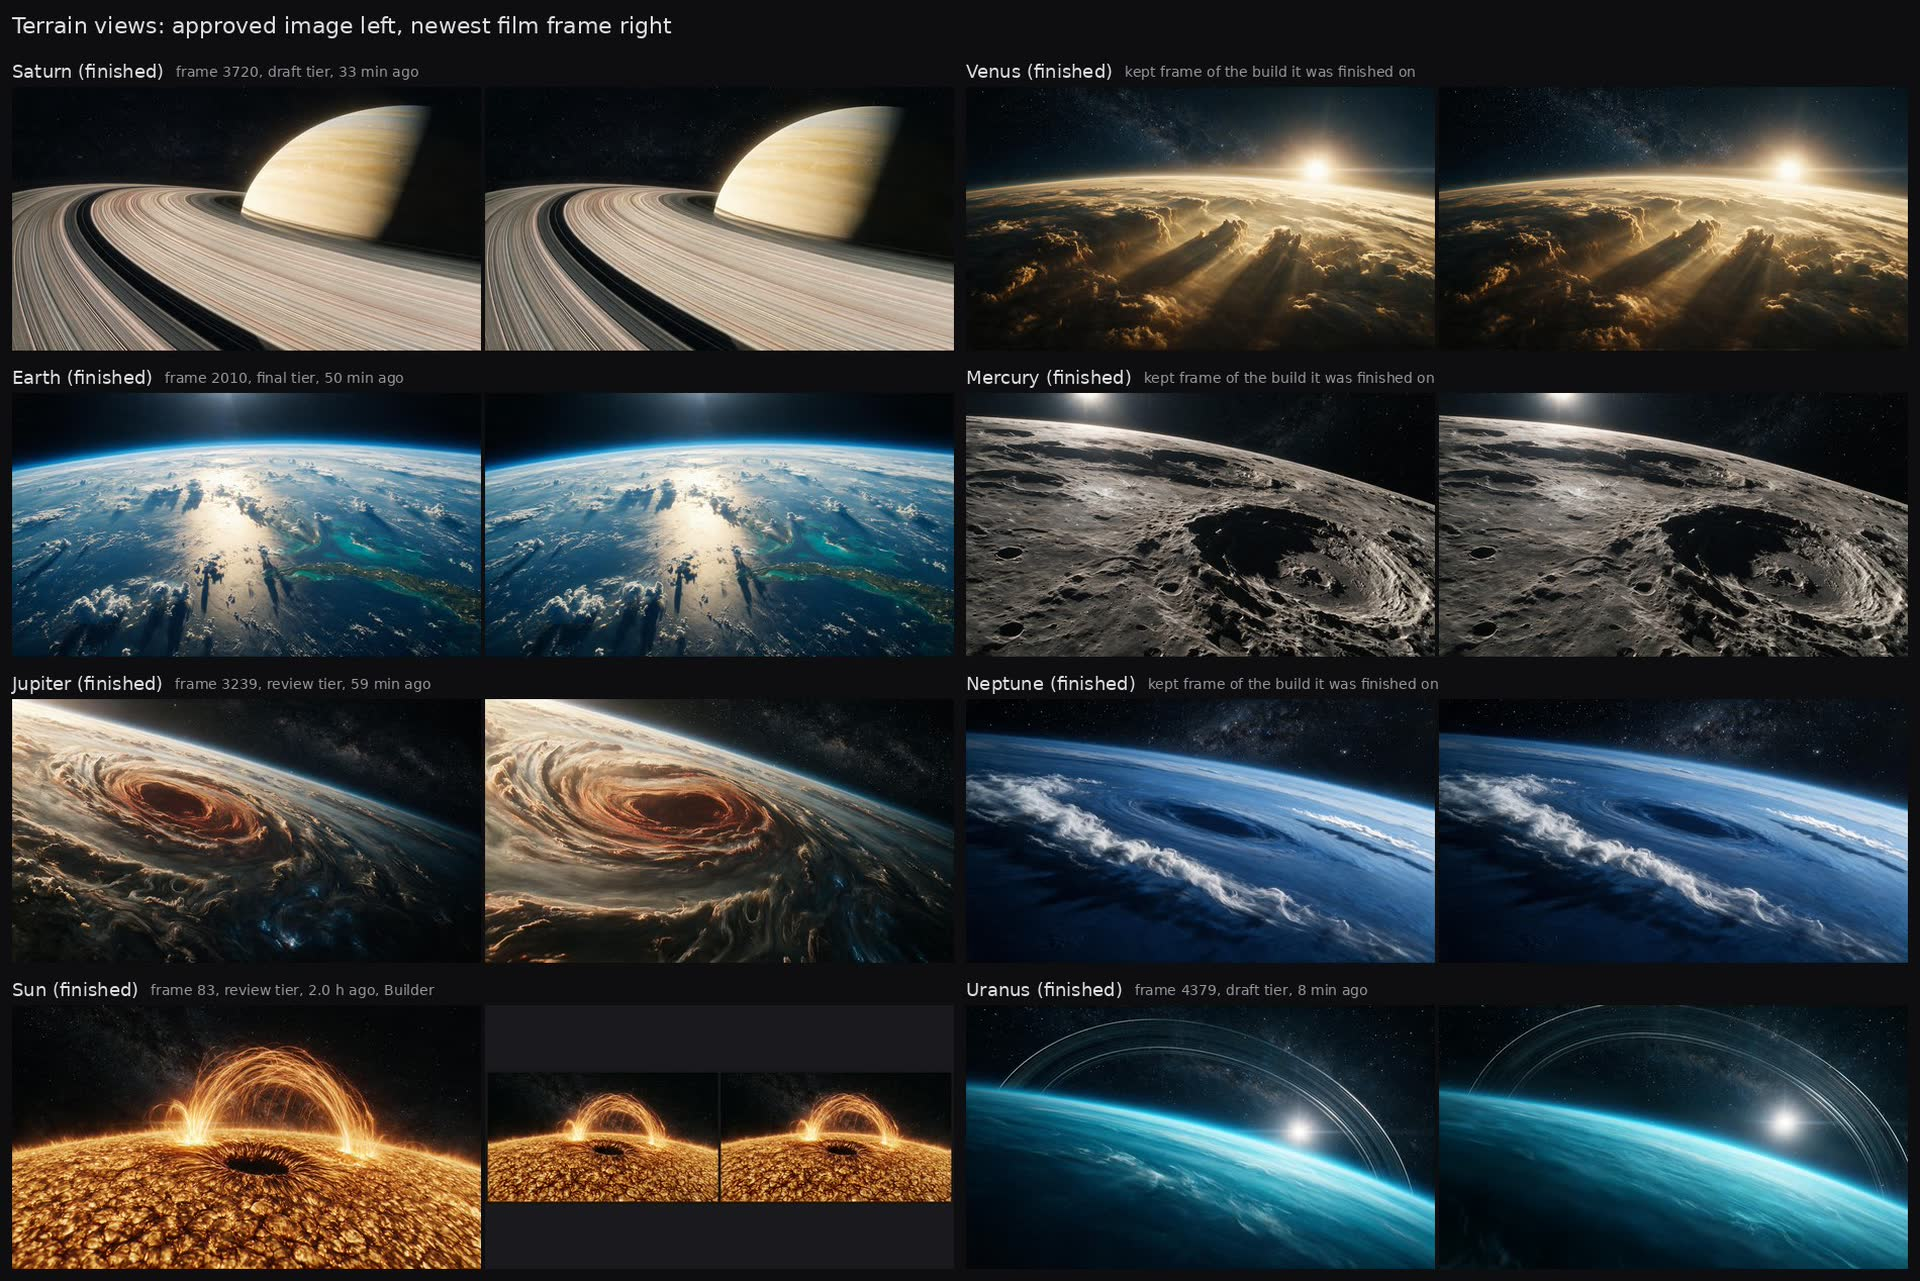
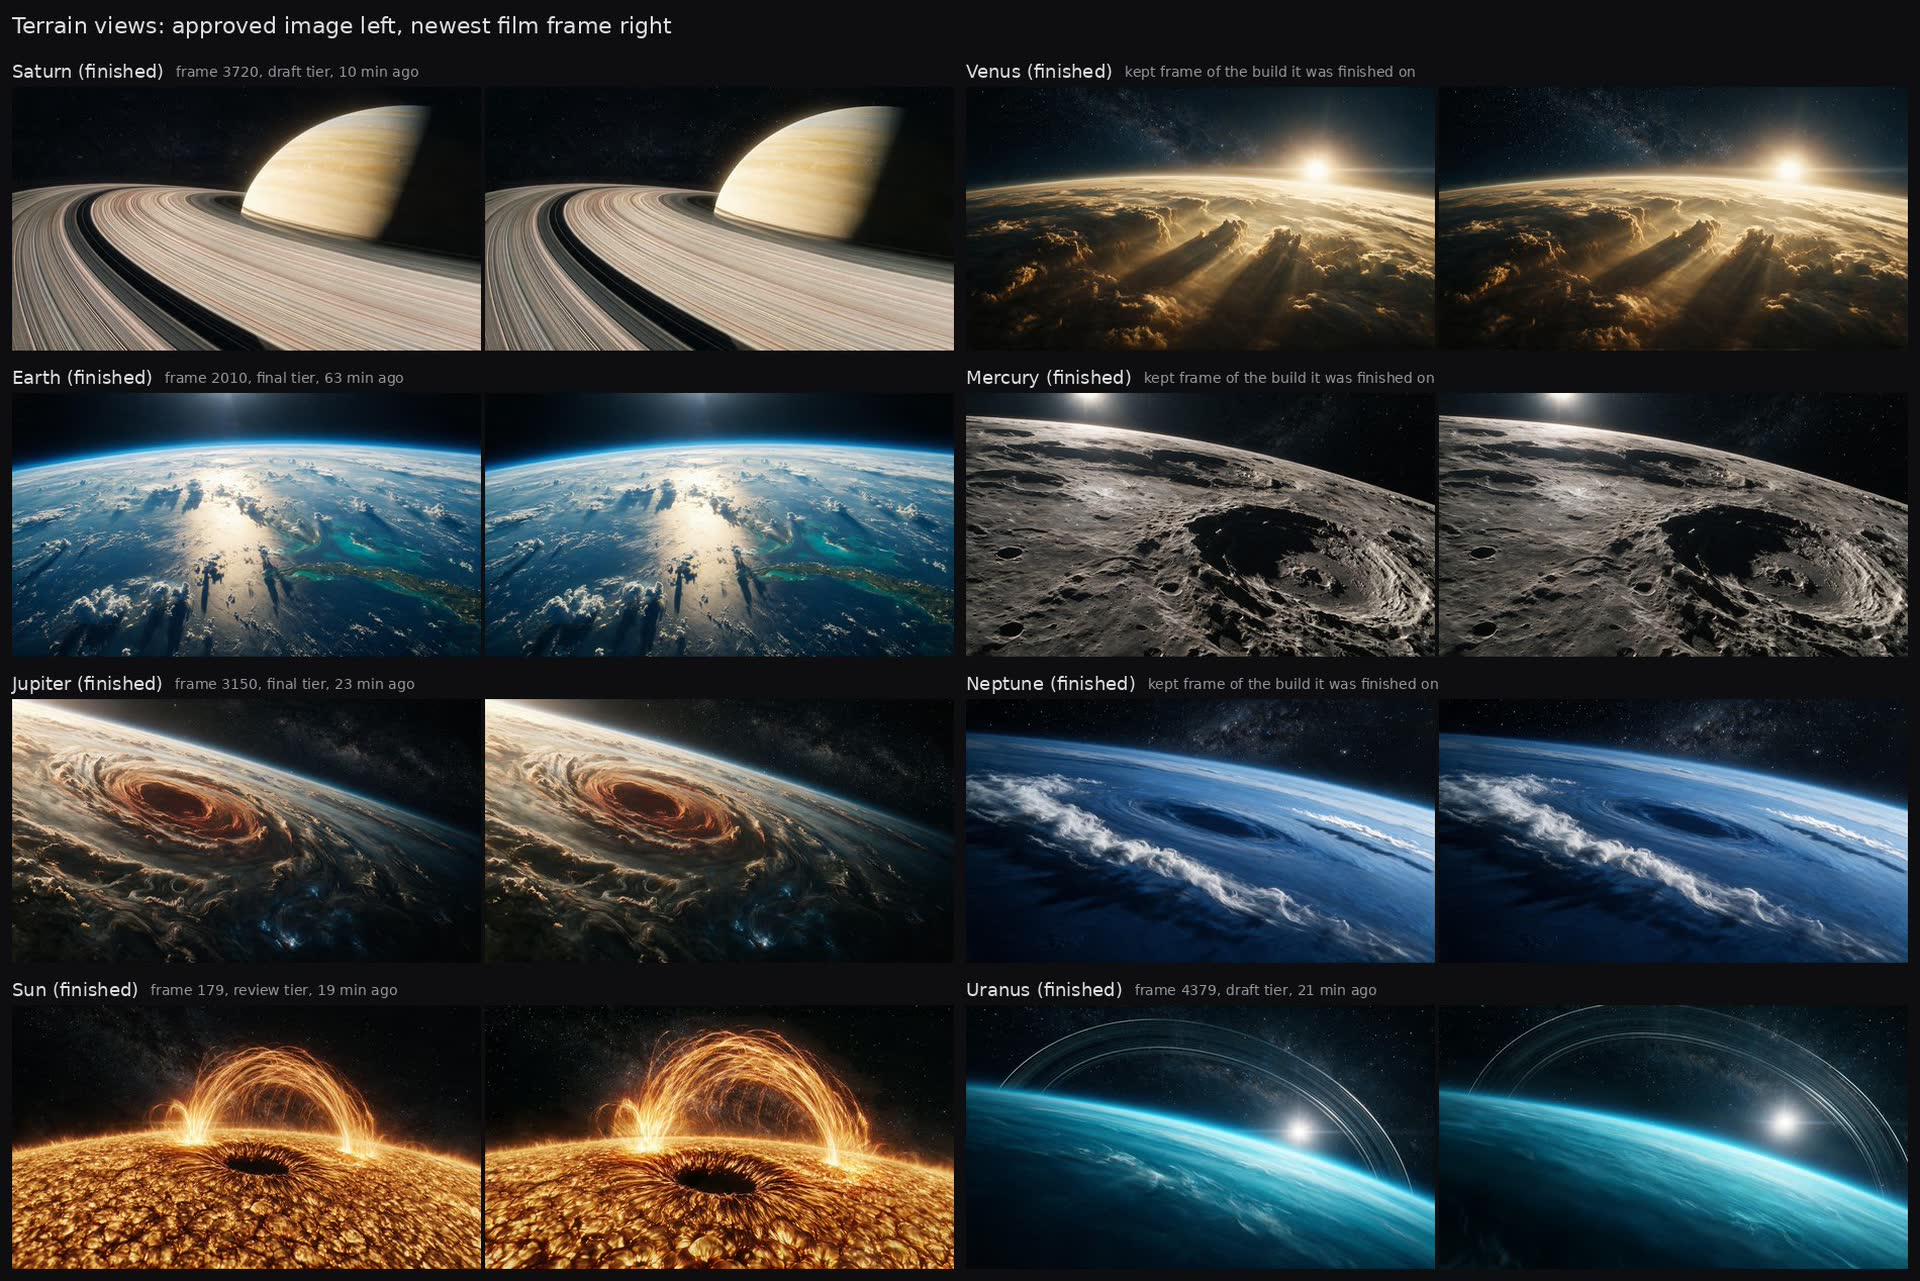
Status: Phase 6, polish round 34 runs (round 2 of 3). All eleven offers are merg

diff --git a/kit/PROGRESS.md b/kit/PROGRESS.md
@@ -885,6 +885,8 @@ Phase 4 supporting agents, started 2026-11-21 about 02:42 UTC, each on its own V
 | render_13 to render_20 | none (render only) | none | started 16:03 UTC: render workers, same brief; each answered `WORKER READY` with 4 cores and the Builder's own sha256 of frame 2325 at the draft tier (fd128b1a999f76fa on 03e3b51); 01:41 UTC on 2026-11-22: render_13 to render_18 freshness b17b Earth to Neptune; 01:54 UTC: b17b back from all (Earth last, from render_13); 01:45 UTC: render_19 the four whole film sheets p5b, render_20 mars and jupiter travel; 02:53 UTC: review sheets on builder/b18-pre (b18s): render_13 earth.travel, render_14 mars.travel, render_15 jupiter.travel, render_16 saturn.travel, render_17 uranus.travel, render_18 ending.retreat, render_19 ending.lookback then the finals 5085, 5235, 5362 (b18t-2), render_20 ending.fade then the finals 3922, 4492, 3352 (b18t-1); 03:06 UTC: all b18 jobs back; 03:03 UTC (b18u): render_14 and render_15 every frame 200 to 224 at the review tier; the others idle; 05:02 UTC: whole film round 30 on main 2621f005: render_13 the three ending sheets, render_14 mercury.travel, render_15 sun.travel, render_16 final stills 4707 to 5362, render_17 the stress clip of ending.lookback; render_18 to render_20 idle; 06:20 UTC on 2026-11-22: render_20 job sv31 back (6 min, commit 1a6f521): frames 2420 to 2434 at the review tier, three export variants each encoded again at the stress rate. PSNR at 2434 after the stress encode: export as now 35.54 dB, near lossless export (CRF 4, 9.9 MB for 15 frames) 35.89 dB, export with stronger detail keeping 35.52 dB. The stress result does not depend on the export; free again; 07:38 UTC byte proof of engine batch 20 on builder/b20 74310e72 (Mars stills and the review sheets of the eight travels, the lookback and the fade), sent 07:36; Proof of engine batch 21 (builder/b21-pre dcf77d8f, 10:21 to 10:36 UTC) and trial of batch 22 (builder/b22-pre 2627d023): final tier stills and review sheets, returned as tar pieces and checked against main's hashes here. |
 | render_21 to render_40 | none (render only) | none | started 09:34 UTC on 2026-11-22: sixteen more render workers with the same brief (assets-src/shared/RENDER-WORKER.md), for the proofs, the preview film and the master of Phases 5 and 6; twenty were asked for, the workspace runs at most 30 agents at one time and refused the last four; each answers WORKER READY with its hash of frame 2325 at the draft tier, checked against render_10's hash of the same commit (JOB ref2325); 09:35 to 09:36 UTC: WORKER READY with 4 cores and 14 to 15 GB free from render_22 to render_36 (render_21 still setting up), each with sha256 fd128b1a999f76fa of frame 2325 at draft on 5f06142, the same as render_10's (JOB ref2325); render_26 and render_32 mistyped the hash at first, render_32 corrected itself, render_26 asked to print it again; 09:37 UTC: render_26 printed its hash again, the same as the others; the four refused workers were started once the others stood idle (render_37 to render_40, same brief, proof on 5f06142), so forty workers in all; 09:38 UTC: render_21 and render_37 ready with the same hash (37 of 40 so far); 09:41 UTC: all forty ready (render_38, render_39, render_40 with the same hash). 09:41 UTC: early look e21 on builder/b21-early b0313de8 (main with agent/export, agent/harness, agent/sun-hook2, agent/travel-pin, agent/ending-rest, agent/mercury-leave, agent/neptune-ending; build and 79 tests green): review sheets of the eight travels, the retreat and the lookback on render_21 to render_30, the ten judged travel and ending frames at the final tier on render_31 to render_36; Proof of engine batch 21 (builder/b21-pre dcf77d8f, 10:21 to 10:36 UTC) and trial of batch 22 (builder/b22-pre 2627d023): final tier stills and review sheets, returned as tar pieces and checked against main's hashes here.; 12:15 UTC on 2026-11-22: base set b32 for the polish rounds, all forty workers (render_01 to render_40): the 43 motion and cover sheets of the nine stops at the review tier from round 32's build (commit 4365a0f, `npm run pack -- --phase 6 --round 32 --stop ID --only PART`), so that each polish round can show by pixel hash which sheets a batch touched; the hashes go to /home/user/workspace/work/p6/base32.json beside those of the 55 final stills and the 110 pack images of round 32 |
 
+- Round 34, started 16:12 UTC on 2026-11-22: 138 jobs on render_01 to render_40 from main 89ced51b (`out/work/rounds/round-034/jobs.json`: the final stills of the whole judged list, the review sheets split by frames, the stress clips and the nine measures; about 52 minutes a worker). The files come back as tar pieces and are placed with `python3 tools/round.py place --round 34`. The machine checks of the round run on the Builder's VM: `python3 tools/round.py start --round 34 --checks`, log `/tmp/r34-checks.log`.
+
 No render job runs on the Builder's VM.
 
 
@@ -1131,3 +1133,4 @@ One entry per task: when it started, what it did, where it stopped.
   - Status, 2026-11-22 15:36 UTC. Phase 6, polish round 33 (1 of 3) is closed with 95 answers: 13 severe and 97 major. Motion scores against the kept build: Jupiter 5 to 9, Saturn 4 to 8, Mercury 4 to 6, Neptune 3 to 5, the Sun 6 to 7; Uranus fell from 7 to 5 and Earth stays at 4. The round 33 build is the base of round 34. Next: round 34 is cut at 16:20 UTC from the offers of the agents (the sky, the ending at Neptune, the rise at Uranus, the covers at Earth, the rings of Saturn, the belt), each proved and looked at beside round 33 before it lands. Then round 35, the freeze, the record round, the master, the clips and the posts. Pictures shown inline (status 109, shown 15:37 UTC): Uranus rise, Earth rise and the Sun low pass, each kept build beside round 33; the belt offer for round 34 at frames 2765 and 2772
   - Status, 2026-11-22 15:44 UTC. Phase 6, between polish rounds 33 and 34. Round 33 is closed with each stop jury held to its own first collection: the Saturn jury fails (1 of 10 against 5 of 10), Venus passes; 13 severe and 97 major. Two offers for round 34 are in and looked at beside round 33: the flight sky and the belt. Next: round 34 is cut at 16:20 UTC from the offers of the agents (the sky, the belt, the ending at Neptune, the rise at Uranus, the covers at Earth, the rings of Saturn, the opening at the Sun), each proved and looked at beside round 33 before it lands. Then round 35, the freeze, the record round, the master, the clips and the posts. Pictures shown inline (status 110, shown 15:46 UTC): the flight sky at frame 3922 (round 33 over the offer for round 34), Saturn's dive at frame 3567 from the Saturn agent (the rings in the planet's shadow now solid), Uranus at the end of the rise at frame 4436 (round 33 beside the candidate with the settle), the hero rock of the belt at frame 2782 (round 33, shutter weight, all three changes).
   - Status, 2026-11-22 16:01 UTC. Phase 6, between polish rounds 33 and 34. Five offers for round 34 are in and decided: the flight sky, the belt, the Sun (a new opening in which the arch throws a shell of plasma inside the first two seconds), Uranus and Jupiter (both take back what cost the match with the approved images in round 33). Mercury lands with its hold left as approved. Next: the offers of Neptune, Earth, Saturn, Venus and the travels, then round 34 is cut at 16:20 UTC: merge, build, checks, measures, every moved judged frame beside round 33, then the critics on what moved. Then round 35, the freeze, the record round, the master, the clips and the posts. Pictures shown inline (status 111, shown 16:05 UTC): the opening of the Sun at phone width in three pairs of rows, round 33 above the offer; Uranus terrain 4290 beside the approved image with the cells taken out; Jupiter 3150 crop D, approved, kept build and offer; Uranus 4436 with and without the change of the flight to Neptune.
+  - Status, 2026-11-22 16:15 UTC. Phase 6, polish round 34 runs (round 2 of 3). All eleven offers are merged on main (89ced51b): the flight sky, the belt, the five flights with the next planet in view, the new opening of the Sun, and the changes of Mercury, Venus, Earth, Jupiter, Saturn, Uranus and Neptune. Mars is untouched. 138 render jobs are out on forty workers and the machine checks run. Next: the files come back in about 50 minutes, every moved judged frame is looked at beside round 33, then the critics judge what moved. Then round 35 (take outs and small proven things), the freeze, the record round, the master, the clips and the posts. Pictures shown inline: Orbit views: approved image left, newest film frame right. Left column, top to bottom: Saturn, Earth, Jupiter, Sun. Right column: Venus, Mercury, Neptune, Uranus. (`out/stills/status/board-orbit.jpg`); Terrain views: approved image left, newest film frame right. Left column, top to bottom: Saturn, Earth, Jupiter, Sun. Right column: Venus, Mercury, Neptune, Uranus. (`out/stills/status/board-terrain.jpg`); Earth, the dive into the clouds: round 33 in the rows marked before, round 34 in the rows marked arc. (`out/stills/status/extra-20261122154945555-note-arc-pairs.jpg`); Neptune: uranus.travel review sheet with arrive.swingDeg 0 (88e925c): one slide of the band, Triton in frame (from the supporting agent building it, 25 min ago) (`out/stills/status/neptune-look-1.jpg`).
